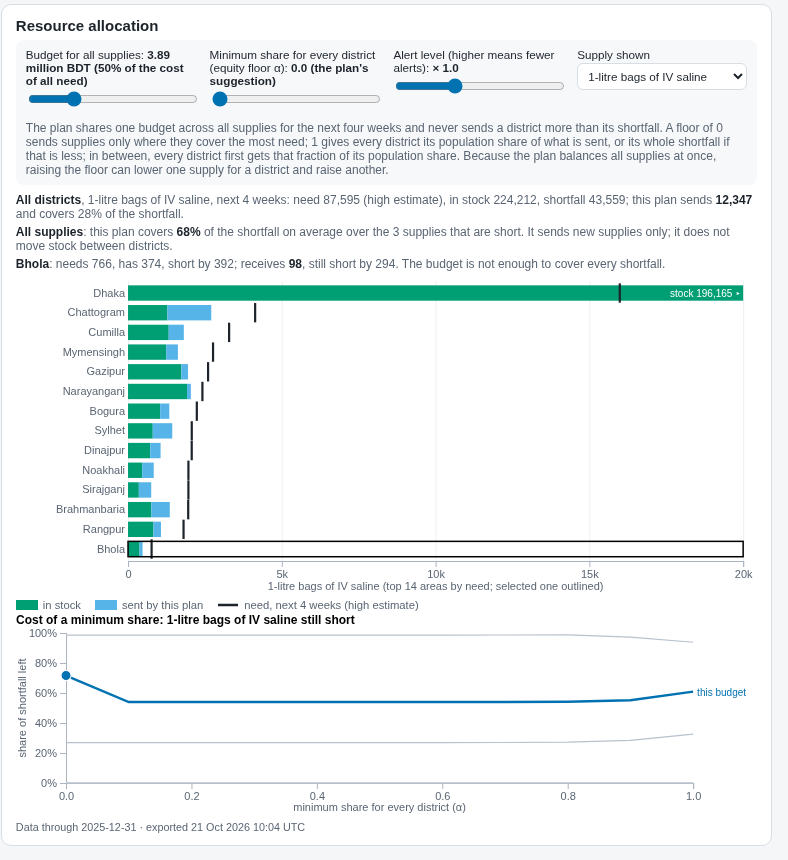
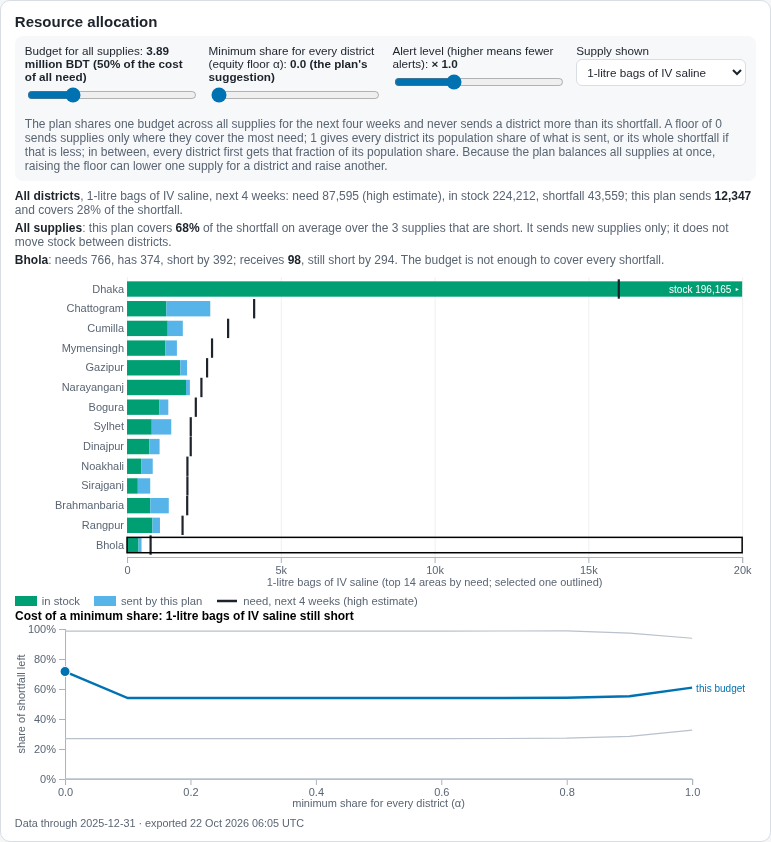
R2 review fixes: detection defaults re-run, recommendation rule, sources and wording
- Clean SF=1 build plus evaluate at e97464c (EARS C2 4.0, CUSUM h 6.5): every result file identical;
  recorded in sf1_final_run.json. Dashboard figures re-taken from that build; caption notes that no
  district is on alert for dengue in the last full week at these thresholds.
- Section 6 states the alpha = 0 rule (floors costing at most 2 points, then the best worst-off
  district, 0.46 against 0.38); C3 points to it.
- Reference [1] title as on the WHO page (Dengue - Global situation, DON498, 21 December 2023).
- docs/ANALYSIS.md removed from the repository (kept locally); comments cite the brief instead.
- Privacy wording (hash before silver, quarantine keeps exact age), Fig. 3 legend below the panels,
  test-suite sentence, Table VII pointer, two shortfall figures, usability build, diagnosis addendum,
  README sections, make drop SF, generator row-count comment.
- walk.mjs: "sel" option on shot captures one element.

Changed region(s): [[0.0, 0.0, 0.965, 0.9881], [0.9961, 0.0, 1.0, 0.9881], [0.8093, 0.7411, 0.8716, 0.772]]

diff --git a/report/sections/fig-equity.tex b/report/sections/fig-equity.tex
@@ -4,8 +4,8 @@
 \begin{groupplot}[group style={group size=2 by 1, horizontal sep=1.6cm}, width=0.46\textwidth, height=4.4cm,
   xmin=0, xmax=1, ymin=0, ymax=102, grid=major, grid style={gray!20}, xlabel={Minimum share per district ($\alpha$)},
   tick label style={font=\footnotesize}, label style={font=\footnotesize}, title style={font=\footnotesize}]
-\nextgroupplot[ylabel={Need met (\%)}, title={Share of need met},
-  legend style={font=\scriptsize, at={(0.02,0.02)}, anchor=south west}, legend cell align=left]
+\nextgroupplot[ylabel={Need met (\%)}, title={Share of need met}, ymin=40,
+  legend to name=equitylegend, legend columns=5, legend style={font=\scriptsize, /tikz/every even column/.append style={column sep=6pt}}]
 \addplot[blue!80!black, mark=*, mark size=0.9pt] coordinates {(0,50.455) (0.1,50.455) (0.2,50.455) (0.3,50.455) (0.4,50.455) (0.5,50.455) (0.6,50.455) (0.7,50.457) (0.8,50.478) (0.9,50.260) (1,49.792)};
 \addplot[orange!85!black, mark=*, mark size=0.9pt] coordinates {(0,67.782) (0.1,65.345) (0.2,65.345) (0.3,65.345) (0.4,65.345) (0.5,65.345) (0.6,65.345) (0.7,65.348) (0.8,65.368) (0.9,65.511) (1,66.302)};
 \addplot[green!50!black, mark=*, mark size=0.9pt] coordinates {(0,82.673) (0.1,82.673) (0.2,82.673) (0.3,82.673) (0.4,82.673) (0.5,82.673) (0.6,82.673) (0.7,82.676) (0.8,82.707) (0.9,82.868) (1,83.443)};
@@ -19,8 +19,9 @@
 \addplot[red!70!black, mark=*, mark size=0.9pt] coordinates {(0,100.000) (0.1,100.000) (0.2,100.000) (0.3,100.000) (0.4,100.000) (0.5,100.000) (0.6,100.000) (0.7,100.000) (0.8,100.000) (0.9,100.000) (1,100.000)};
 \addplot[gray, mark=*, mark size=0.9pt] coordinates {(0,100.000) (0.1,100.000) (0.2,100.000) (0.3,100.000) (0.4,100.000) (0.5,100.000) (0.6,100.000) (0.7,100.000) (0.8,100.000) (0.9,100.000) (1,100.000)};
 \end{groupplot}
-\end{tikzpicture}
+\end{tikzpicture}\\[2pt]
+\ref{equitylegend}
 \caption{Efficiency and equity curve (AN-8) from \texttt{allocation\_curve.csv}: share of need met and the
-worst-covered district's share of its own need against the equity floor $\alpha$, one line per budget.}
+worst-covered district's share of its own need against the equity floor $\alpha$, one line per budget. The left axis starts at 40\%. The lines for $1.0$ and $1.5\,B_{\text{ref}}$ coincide at 100\%.}
 \label{fig:equity}
 \end{figure*}

diff --git a/report/sections/s7-dashboard.tex b/report/sections/s7-dashboard.tex
@@ -22,8 +22,9 @@ level would give before anyone changes the detector.
 \centering
 \includegraphics[width=0.62\textwidth]{figures/dashboard-overview.png}\hfill
 \includegraphics[width=0.36\textwidth]{figures/dashboard-allocation.png}
-\caption{The dashboard on the final SF=1 data. Left: the ``on alert now'' line, the map (solid triangle: alert in
-the last full week), the weekly series with its forecast table, and the seasonal heatmap. Right: the
+\caption{The dashboard on the final SF=1 data. Left: the ``on alert now'' line (at the chosen thresholds no district
+is on alert for dengue in the last full week), the map (solid triangle: alert in the last full week; outlined:
+earlier in the range), the weekly series with its forecast table, and the seasonal heatmap. Right: the
 allocation panel with the what-if sliders and the cost of a minimum share.}
 \label{fig:dashboard}
 \end{figure*}
@@ -65,7 +66,7 @@ week, added a forecast table with a cautious four-week total, removed the thresh
 in plain words, and added a sentence explaining each district's allocation. In the confirm round the agents
 rated 26 of the 48 problems fixed, 20 partly fixed and 2 not fixed. Round 2 logged 17 new problems, 13 of them distinct, two of high severity: the hollow alert markers were drawn
 solid, and at the largest budget with $\alpha=1$ the plan sent 9,237 antimalarial courses against a national
-shortfall of 684, because a full population split forces supplies to every district. We then fixed the
+shortfall of 684 (as the dashboard showed it then), because a full population split forces supplies to every district. We then fixed the
 markers, called a cell hidden to protect another cell ``hidden'' instead of ``fewer than 5'', made the ranking
 fit its panel, added a cautious four-week total and an all-supplies line, and said on screen that the plan does
 not move stock between districts. These fixes were not tested in a third round. The over-allocation

diff --git a/report/sections/s6-evaluation.tex b/report/sections/s6-evaluation.tex
@@ -115,7 +115,9 @@ $\min(\alpha\,p_d\sum_e x_{e,r},\ \text{need}_{d,r})$ and never more than its ne
 population share of what is sent, but never more than a district needs. No scenario now sends any district
 more than its need (\texttt{excess\_cost} is at most 0.03\,BDT, solver rounding). At a quarter and three quarters of $B_{\text{ref}}$
 every floor changes need met by under one point; at three quarters a high floor even raises it slightly (83.4\% at $\alpha=1$), because the LP minimises the tranche-weighted shortfall, not the share of need met. At half the budget a floor from 0.1 to 0.9 costs 2.3 to 2.4 points
-(65.3 to 65.5\% against 67.8\%) and $\alpha=1$ costs 1.5, so the rule recommends $\alpha=0$. The tranche prices already
+(65.3 to 65.5\% against 67.8\%) and $\alpha=1$ costs 1.5. Our rule keeps the floors that cost at most 2 points of need met at every scarce budget
+($\alpha=0$ and $\alpha=1$), then takes the one with the best-covered worst-off district on average (0.46 against
+0.38), which is $\alpha=0$. The tranche prices already
 spread the money: at $\alpha=0$ and half the budget the worst-covered district gets half of its need. The floor
 does not improve on that. At half the budget, $\alpha=0.1$ lowers the worst-covered district from 0.50 to 0.375
 of its need and moves the Gini of per-capita spend from 0.261 to 0.271, and at no budget does any $\alpha$

diff --git a/report/sections/s2-cep.tex b/report/sections/s2-cep.tex
@@ -28,8 +28,8 @@ hidden, and a second cell is hidden in any row or column with only one hidden ce
 \textbf{C3 efficiency against equity.} The equity floor $\alpha$ gives every district at least $\alpha$ times
 its population share of each resource sent, capped at its own need, so $\alpha=1$ is a population split that never
 sends a district more than it needs. The price is measured, not assumed: at a quarter or three quarters of the
-money needed a floor changes need met by under one point (at three quarters a high floor even raises it slightly), but at half the money it costs 1.5 to 2.4 points, so the
-stated rule recommends $\alpha=0$ (Section~\ref{sec:alloc}). The ministry can still choose a floor in the what-if panel and see its cost.
+money needed a floor changes need met by under one point (at three quarters a high floor even raises it slightly), but at half the money it costs 1.5 to 2.4 points, and the
+rule in Section~\ref{sec:alloc} recommends $\alpha=0$. The ministry can still choose a floor in the what-if panel and see its cost.
 
 \textbf{C4 freshness against cost.} Forecasts and allocations are weekly decisions, so they run in a daily
 batch. Alerts can also run from a Structured Streaming file source that refreshes them as files land

diff --git a/generator/config.py b/generator/config.py
@@ -26,7 +26,8 @@ AGE_LO = np.array([0, 5, 15, 25, 45, 65])
 AGE_HI = np.array([4, 14, 24, 44, 64, 65])  # 65+ handled with an exponential tail
 
 # Encounters per 1,000 population per year at SF=1. With the 2022 population (~165.7M) this is about
-# 6.2M encounters a year, so 2021-2025 is about 31M rows (the brief asks for 25M or more).
+# 6.2M encounters a year from these rates; SF=1 gives 34.1M rows for 2021-2025, planted defects included
+# (the brief asks for 25M or more).
 RATE_PER_1000 = np.array([4.2, 9.7, 7.8, 0.24, 15.1])
 
 # NB2 dispersion alpha per disease (Var = mu + alpha mu^2), research.md §8.1.
@@ -91,7 +92,7 @@ DELAY_MEAN, DELAY_SIZE, DELAY_MAX = 3.0, 1.5, 21
 WEEKEND_SHIFT_P = 0.65   # share of Fri/Sat reports pushed to the next Sunday
 HOLIDAY_SHIFT_P = 0.80   # share of holiday reports pushed to the next working day
 
-# Built-in defects (brief §5.2, ANALYSIS.md trap 4). Rates are shares of output rows.
+# Built-in defects (brief §5.2). Rates are shares of output rows.
 DUP_RATE = 0.02          # extra rows that repeat an existing encounter_id (resubmissions)
 ORPHAN_RATE = 0.005      # facility_id not in S5
 INVALID_AGE_RATE = 0.005

diff --git a/report/sections/s3-architecture.tex b/report/sections/s3-architecture.tex
@@ -32,7 +32,9 @@ means a locked metastore can never stop the pipeline.
 \textbf{Orchestration (ENG-4).} \texttt{scripts/dag.py} runs the stages in dependency order and retries a
 failed stage twice, 30\,s and then 60\,s later, before it stops; each run leaves a JSON record of attempts and
 times in the lake. Retrying is safe because every stage is idempotent: bronze skips files it has already
-loaded, silver merges and gold rebuilds only changed weeks.
+loaded, silver merges and gold rebuilds only changed weeks. The 168 unit tests (\texttt{make test}, gate 1 of \texttt{make check}) cover the generator, the quality
+rules, de-identification and suppression, idempotent loads, detection, forecasting, the LP constraints, the
+SEIR fit, the dashboard export and the DAG.
 
 \begin{table}[htbp]
 \caption{Alternatives considered}

diff --git a/report/sections/s8-ethics.tex b/report/sections/s8-ethics.tex
@@ -1,6 +1,6 @@
 \section{Ethical, Societal and Sustainability Considerations}
 \textbf{Privacy by design.} No real patient data is used; every encounter is synthetic and labelled so.
-Direct identifiers stop at bronze: silver and gold hold only the keyed hash and age bands, the key never enters
+Direct identifiers stop at bronze: silver and gold hold only the keyed hash; clean rows keep age bands (the quarantine keeps exact age for review); the key never enters
 Git, and every export hides counts from 1 to 4 with complementary suppression, so a total cannot reveal a hidden
 cell. One residual risk is known and written in the code: the padded HMAC key appears in Spark's query plan, so
 Spark event logs of the silver job must be treated as secret and kept outside the repository.

diff --git a/report/sections/s1-intro.tex b/report/sections/s1-intro.tex
@@ -38,7 +38,7 @@ Privacy regulator & Line-level data never leaves the lake; only aggregates reach
 \toprule
 Risk & Outcome \\
 \midrule
-Generator too slow & Retired: 34.1 million SF=1 encounters in under a minute (Section~\ref{sec:data}) \\
+Generator too slow & Retired: 34.1 million SF=1 encounters in under a minute (Table~\ref{tab:scaling}) \\
 SF=1 over 45 minutes & Met: 25 to 28 minutes from a fresh clone (Table~\ref{tab:scaling}) \\
 Hidden drop fails & Retired: the drill on the final ingestion code passed every check (Section~\ref{sec:data}) \\
 Reporting artefact raises false alerts & Mitigated: onset-week counts, silent weeks missing; a test checks it \\

diff --git a/pipeline/quality/rules.py b/pipeline/quality/rules.py
@@ -8,7 +8,7 @@ Raw columns may arrive as strings (bronze reads CSV/JSON as written) or already 
 mode, where a plain cast or comparison on a malformed string throws, so every rule reads values through
 ``try_cast`` and treats an unparseable value as its own defect (the DQ_TYPE_* rules).
 
-Injected defects (ANALYSIS.md section 6, trap 4) map one-to-one:
+Injected defects (brief §5.2) map one-to-one:
 
     duplicated encounter_id      DQ_DUP_ENCOUNTER
     orphan facility_id           DQ_ORPHAN_FACILITY

diff --git a/README.md b/README.md
@@ -39,7 +39,7 @@ make bronze silver gold analytics serve   # loads only files not seen before, re
 ```
 
 Nothing names a date, file or row count: files are found by glob and checksum, so the same command handles any
-drop. Running it twice changes nothing. To rehearse with a drop of our own: `make drop DROP_SEED=1234` writes a
+drop. Running it twice changes nothing. To rehearse with a drop of our own: `make drop SF=<base SF> DROP_SEED=1234` writes a
 fresh 14-day drop after the last date in `data/raw/`; `scripts/hidden_drop_drill.sh` does the whole test from a
 clean clone and writes `docs/experiments/hidden_drop_drill.json`.
 
@@ -77,7 +77,7 @@ Hive catalog (`make catalog`). Details and the reasons for each choice are in th
 | ING-4 | pipeline/silver/build.py | §4 |
 | ING-5 | not done: local filesystem on purpose, to save RAM | §3, §9 |
 | ING-6 | pipeline/stream.py | §3, §4 |
-| ING-7 | pipeline/gold/asof.py | §4, §6 |
+| ING-7 | pipeline/gold/asof.py | §4 |
 | DQ-1 | pipeline/quality/rules.py | §4 |
 | DQ-2 | pipeline/quality/engine.py | §4 |
 | DQ-3 | pipeline/quality/engine.py | §4 |
@@ -85,7 +85,7 @@ Hive catalog (`make catalog`). Details and the reasons for each choice are in th
 | PRV-1 | pipeline/privacy/deid.py | §4 |
 | PRV-2 | pipeline/privacy/suppression.py | §4 |
 | PRV-3 | serving/roles.py, dashboard/js/data.js (`?district=`) | §7, §8 |
-| PRV-4 | pipeline/privacy/kanon.py | §4, §8 |
+| PRV-4 | pipeline/privacy/kanon.py | §8 |
 | AN-1 | analytics/detection/methods.py | §5 |
 | AN-2 | analytics/evaluation/run.py | §6 |
 | AN-3 | analytics/detection/prepare.py | §5, §6 |
@@ -106,7 +106,7 @@ Hive catalog (`make catalog`). Details and the reasons for each choice are in th
 | ENG-1 | Makefile | §3 |
 | ENG-2 | scripts/scaling.sh | §6 |
 | ENG-3 | pipeline/quality/engine.py, analytics/forecast/backtest.py, docs/experiments/silver_optimisation.json, docs/experiments/backtest_optimisation.json | §6 |
-| ENG-4 | tests/, scripts/dag.py (DAG with retries) | §6 |
+| ENG-4 | tests/, scripts/dag.py (DAG with retries) | §3 |
 
 ## Data sources
 
@@ -121,7 +121,6 @@ Hive catalog (`make catalog`). Details and the reasons for each choice are in th
 - `docs/EpiScope-report.pdf`: the technical report (IEEE format), with the policy brief in Appendix A
 - `docs/FINAL-NUMBERS.md`: every headline number and the result file it comes from
 - `docs/contracts.md`: data contracts between components (tables, exports, role bundles)
-- `docs/ANALYSIS.md`: requirements analysis of the brief and the plan
 - `AI_USAGE.md`: where AI tools were used, as the brief requires
 - `docs/research.md`: primary-source research for every method, dataset and tool
 - `generator/schema.json`: schema contract for S4–S6

diff --git a/docs/experiments/allocation_diagnosis.md b/docs/experiments/allocation_diagnosis.md
@@ -115,16 +115,16 @@ National net need after the fix (4-week q90 demand minus stock; beds count the c
 The data end on 31 December, after the dengue season: NS1 kits were stocked for November's dengue load and beds
 are free, so neither needs topping up in January. Diarrhoea (ORS) and IV saline are where the shortfall is.
 
-At half of B_ref the LP meets 73.6% of need at the recommended alpha = 0.1, against 26.3% for the
+Before the cap (see the addendum for the final result): at half of B_ref the LP meets 73.6% of need at the recommended alpha = 0.1, against 26.3% for the
 population-proportional baseline (`allocation_summary.json` of that build). The recommendation is no longer
 pinned to 0: floors up to 0.4 cost under 2 points of efficiency, and 0.1 gives the best worst-off district.
 These are SF=0.25 numbers; the report uses the clean SF=1 run.
 
 ## Addendum: allocation capped at need (2026-10-21, commit 1acb5e1)
 
-The examiner review found that at the largest budget with alpha = 1 the plan sent 9,237 antimalarial courses
+An internal review found that at the largest budget with alpha = 1 the plan sent 9,237 antimalarial courses
 against a national shortfall of 684: a full population split forces a supply needed in a few districts onto
 every district. Now x[d,r] <= need[d,r], and the floor is min(alpha p_d sum_e x[e,r], need[d,r]) (a small MILP:
 one binary per district and resource). On the clean SF=1 run no scenario sends more than need (`excess_cost`
-0 throughout); the headline is unchanged (67.8% of need met against 34.4% at half of B_ref, alpha = 0
+at most 0.03 BDT, solver rounding); the headline is unchanged (67.8% of need met against 34.4% at half of B_ref, alpha = 0
 recommended).

diff --git a/docs/usability/README.md b/docs/usability/README.md
@@ -11,7 +11,7 @@ participant took part, and the quotes in the JSON files are written by the agent
   - **b**: hospital store-keeper, Chattogram; plans orders in Excel, dislikes statistical terms; national view.
   - **c**: senior non-technical decision-maker at the Ministry; five minutes, defends budgets in meetings;
     national view.
-- They used the real dashboard of the final clean SF=1 build, one headless Chrome at a time under a lock,
+- They used the real dashboard of a clean SF=1 build of 21 October (commit a99339c, before the allocation cap), one headless Chrome at a time under a lock,
   through `dashboard/tools/walk.mjs` (clicks, selections, hovers, screenshots, visible text). They could not
   read or change the code.
 - Five tasks each: (1) find this week's alerts for their district, (2) read a forecast with its range,
